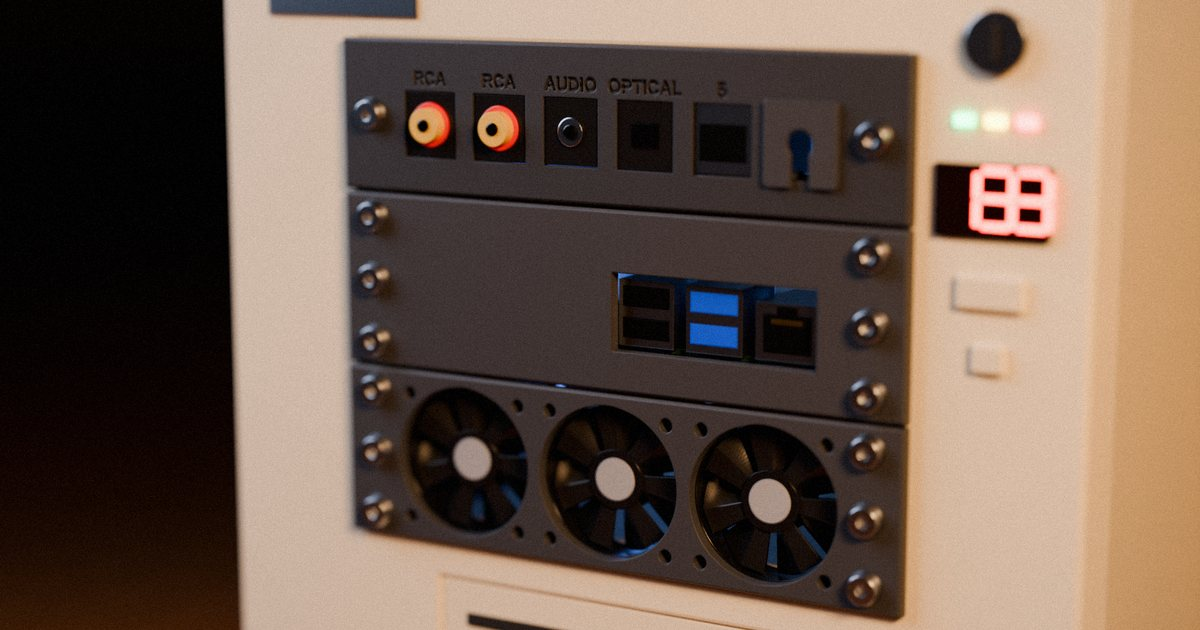
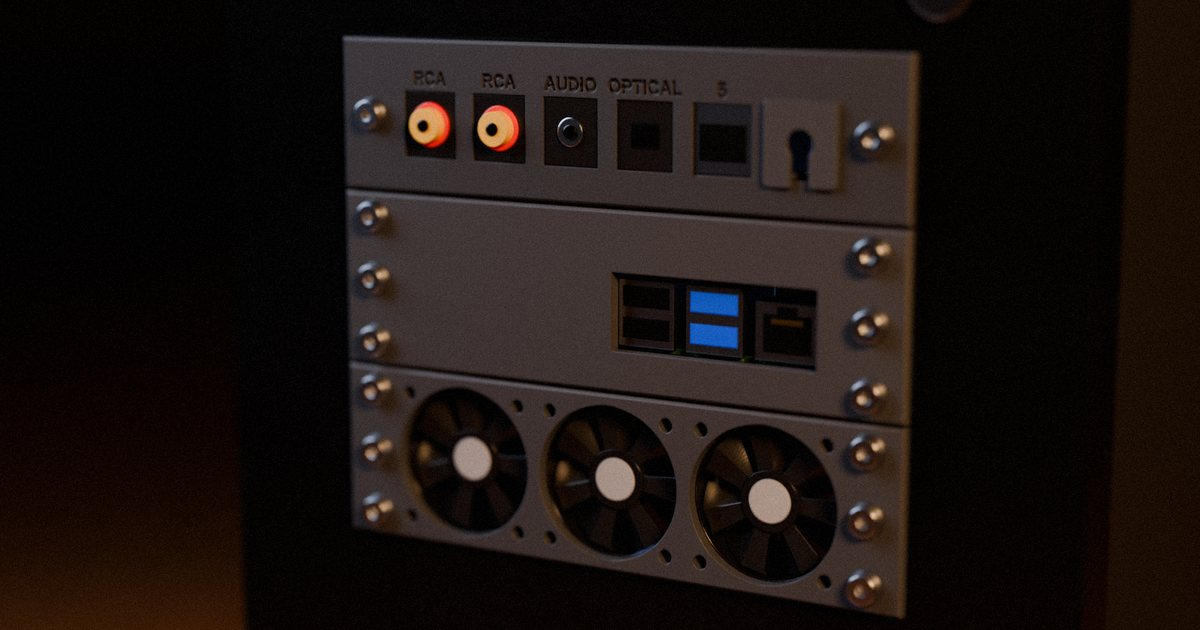
Consistency: builds load the case of their picture, one name per build, Bay2Rack, touch targets

diff --git a/web/src/strings.js b/web/src/strings.js
@@ -2,7 +2,7 @@
 // the English texts into index.html, so the page has its words before any script runs)
 export const dict = {
   en: {
-    steps: 'Build yours',
+    steps: 'Step by step',
     grp_start: 'To start', step_intent: 'What do you want in the bays?',
     intent_simple: 'A fan or buttons', intent_simple_sub: 'a front panel, the easiest, nothing else to buy',
     intent_ports: 'Sockets', intent_ports_sub: 'network, HDMI, USB or audio on the front',
@@ -164,7 +164,7 @@ export const dict = {
     undo: 'Undo (Ctrl+Z)', redo: 'Redo (Ctrl+Y)', savedTitle: 'Your builds (kept in this browser)',
     savedNone: 'None yet: give this one a name and save it.', savedSave: 'Save this build', savedName: 'Name of this build', savedDelete: 'Forget this build',
     aria_view: '3D view (arrow keys turn it, + and - zoom, Home frames it):',
-    page_title: 'bay2rack · old PC case → 6" homelab rack',
+    page_title: 'Bay2Rack · old PC case → 6" homelab rack',
     page_desc: 'Turn the 5.25 inch bays of an old PC case into a 6 inch mini rack for a cheap homelab: router with VLANs, switches, KVM, Raspberry Pi blades, patch panel. Configure it, see it mounted in 3D and download every STL in your browser.',
     resetDims: 'reset',
     devHint: 'The sizes of the devices in the list are filled in: change them only if yours is different. The tray is made for it with {n} mm of clearance.',
@@ -183,8 +183,8 @@ export const dict = {
     dev_bladePitch: 'Distance between blades', dim_pitch: 'mm',
     pos_top: 'Top', pos_bottom: 'Bottom', pos_split: 'Both', fillBottom: 'Lower strip', fillTop: 'Upper strip',
     port_rca: 'RCA', port_jack: '3.5 mm jack', port_toslink: 'Toslink',
-    ex_router: 'Router + VLANs', ex_network: 'Network rack', ex_pi: 'Raspberry Pi cluster', ex_kvm: 'KVM station', ex_audio: 'Audio',
-    ex_client: 'Buttons + 80 mm fan',
+    ex_router: 'Router with VLANs', ex_network: 'Network rack', ex_pi: 'Raspberry Pi cluster', ex_kvm: 'KVM over IP', ex_audio: 'Audio',
+    ex_client: 'Proxmox / TrueNAS box',
     ex_router_tip: 'This PC is the router (OPNsense / pfSense): a managed UniFi switch for the VLANs, a second switch for the servers, JetKVM + NanoKVM and a patch panel. Next to it a Proxmox node with a printed fan and button bezel, a TrueNAS box and an access point.',
     ex_network_tip: '5 bays: two switches, a UniFi Express and a full patch panel.',
     ex_pi_tip: '4 bays: a UniFi switch and four Raspberry Pi 5 as 2U blades.',
@@ -205,7 +205,7 @@ export const dict = {
     use_kvm_t: 'KVM over IP', use_kvm: 'JetKVM or NanoKVM in a tray: control this machine, the others, or both, from the browser even when they do not boot.',
     use_pi_t: 'Raspberry Pi cluster', use_pi: 'A flat tray for one or two boards, or 2U blades with up to four Raspberry Pi on edge, with PoE and plenty of air.',
     use_audio_t: 'Audio', use_audio: 'RCA, 3.5 mm jack and Toslink keystones for a streamer or a DAC: the PC becomes the music server.',
-    use_clients_t: 'Proxmox and TrueNAS boxes', use_clients: 'The other old towers of the homelab reuse their bays too: an 80 mm fan for the drives, a button panel with mechanical keys and LEDs.',
+    use_clients_t: 'Proxmox / TrueNAS box', use_clients: 'The other old towers of the homelab reuse their bays too: an 80 mm fan for the drives, a button panel with mechanical keys and LEDs.',
     how_title: 'How it works',
     how_1_t: 'Pick and adjust', how_1: 'Start from an example, change bays, modules, ports and screws. Hover over anything, or tap the i, to see what it does.',
     how_2_t: 'See it mounted', how_2: 'The 3D view puts it in a real PC case, with the devices and the cables.',
@@ -231,14 +231,14 @@ export const dict = {
     devices: 'Devices and keystones', hardware: 'Screws and inserts', explode: 'Pieces apart',
     test_bay: 'Bay corner', test_rack: 'Rack holes', test_keystone: 'Keystone port', test_button: 'One button', tol_mx: 'MX key cut-out',
     cover_blank: 'Plain', cover_pass: 'Pass-through',
-    readme_title: 'bay2rack kit',
+    readme_title: 'Bay2Rack kit',
     readme_print: 'Print (front face down, no supports):',
     readme_need: 'What you need:',
     readme_settings: 'Open these settings again:',
     readme_notes: 'Print the test pieces (1) first and check them in your case. If one is tight or loose, change it in the "Adjust after the test prints" step of the website, download again, then print the rest (2).', readme_guide: 'Build guide (what to buy, print order, assembly):', rearSlots: 'Printed PCI brackets to take cables out at the back (only with devices inside)', step_multi: 'Letters in another colour', multicolourOff: 'With a multi-material printer (e.g. AMS), the letters can print in a second filament.',
   },
   es: {
-    steps: 'Configura el tuyo',
+    steps: 'Paso a paso',
     grp_start: 'Para empezar', step_intent: '¿Qué quieres poner en las bahías?',
     intent_simple: 'Un ventilador o botones', intent_simple_sub: 'un frontal, lo más fácil, sin nada más que comprar',
     intent_ports: 'Enchufes', intent_ports_sub: 'red, HDMI, USB o audio en el frontal',
@@ -400,7 +400,7 @@ export const dict = {
     undo: 'Deshacer (Ctrl+Z)', redo: 'Rehacer (Ctrl+Y)', savedTitle: 'Tus montajes (guardados en este navegador)',
     savedNone: 'Aún ninguno: ponle nombre a este y guárdalo.', savedSave: 'Guardar este montaje', savedName: 'Nombre de este montaje', savedDelete: 'Olvidar este montaje',
     aria_view: 'Vista 3D (las flechas la giran, + y - acercan, Inicio la encuadra):',
-    page_title: 'bay2rack · caja de PC antigua → rack de 6" para tu homelab',
+    page_title: 'Bay2Rack · caja de PC antigua → rack de 6" para tu homelab',
     page_desc: 'Convierte las bahías de 5,25" de una caja de PC antigua en un mini rack de 6" para un homelab barato: router con VLANs, switches, KVM, blades de Raspberry Pi y patch panel. Configúralo, míralo montado en 3D y descarga todos los STL en tu navegador.',
     resetDims: 'restablecer',
     devHint: 'Ya vienen las medidas de los dispositivos de la lista: cámbialas solo si el tuyo mide distinto. La bandeja se hace a su medida con {n} mm de holgura.',
@@ -419,8 +419,8 @@ export const dict = {
     dev_bladePitch: 'Separación entre blades', dim_pitch: 'mm',
     pos_top: 'Arriba', pos_bottom: 'Abajo', pos_split: 'Las dos', fillBottom: 'Franja de abajo', fillTop: 'Franja de arriba',
     port_rca: 'RCA', port_jack: 'Jack 3,5 mm', port_toslink: 'Toslink',
-    ex_router: 'Router + VLANs', ex_network: 'Rack de red', ex_pi: 'Clúster de Raspberry Pi', ex_kvm: 'Estación KVM', ex_audio: 'Audio',
-    ex_client: 'Botones + ventilador de 80 mm',
+    ex_router: 'Router con VLANs', ex_network: 'Rack de red', ex_pi: 'Clúster de Raspberry Pi', ex_kvm: 'KVM por IP', ex_audio: 'Audio',
+    ex_client: 'Caja Proxmox / TrueNAS',
     ex_router_tip: 'Este PC hace de router (OPNsense / pfSense): switch UniFi gestionable para las VLANs, un segundo switch para los servidores, JetKVM + NanoKVM y patch panel. Al lado, un nodo Proxmox con ventilador y botonera impresos, un NAS con TrueNAS y un punto de acceso.',
     ex_network_tip: '5 bahías: dos switches, un UniFi Express y un patch panel completo.',
     ex_pi_tip: '4 bahías: un switch UniFi y cuatro Raspberry Pi 5 en blades de 2U.',
@@ -441,7 +441,7 @@ export const dict = {
     use_kvm_t: 'KVM por IP', use_kvm: 'JetKVM o NanoKVM en bandeja: controla este equipo, los otros, o ambos, desde el navegador aunque no arranquen.',
     use_pi_t: 'Clúster de Raspberry Pi', use_pi: 'Bandeja plana para una o dos placas, o blades de 2U con hasta cuatro Raspberry Pi de canto, con PoE y bien ventiladas.',
     use_audio_t: 'Audio', use_audio: 'Keystones RCA, jack de 3,5 mm y Toslink para un streamer o un DAC: el PC se convierte en el servidor de música.',
-    use_clients_t: 'Nodos Proxmox y TrueNAS', use_clients: 'Las otras torres viejas del homelab también aprovechan sus bahías: un ventilador de 80 mm para los discos y una botonera con teclas mecánicas y LEDs.',
+    use_clients_t: 'Caja Proxmox / TrueNAS', use_clients: 'Las otras torres viejas del homelab también aprovechan sus bahías: un ventilador de 80 mm para los discos y una botonera con teclas mecánicas y LEDs.',
     how_title: 'Cómo funciona',
     how_1_t: 'Elige y ajusta', how_1: 'Parte de un ejemplo y cambia bahías, módulos, puertos y tornillería. Pasa el ratón por encima, o toca la i, para ver qué hace cada cosa.',
     how_2_t: 'Míralo montado', how_2: 'La vista 3D lo monta en una caja de PC real, con los dispositivos y el cableado.',
@@ -467,7 +467,7 @@ export const dict = {
     devices: 'Dispositivos y keystones', hardware: 'Tornillos e insertos', explode: 'Piezas separadas',
     test_bay: 'Esquina de bahía', test_rack: 'Agujeros del rack', test_keystone: 'Puerto keystone', test_button: 'Un botón', tol_mx: 'Hueco de la tecla MX',
     cover_blank: 'Liso', cover_pass: 'Pasacables',
-    readme_title: 'Kit bay2rack',
+    readme_title: 'Kit Bay2Rack',
     readme_print: 'Imprimir (cara frontal sobre la cama, sin soportes):',
     readme_need: 'Lo que necesitas:',
     readme_settings: 'Para volver a abrir esta configuración:',

diff --git a/web/src/examples.js b/web/src/examples.js
@@ -1,21 +1,22 @@
-// ready-made builds: the examples step and the gallery (applied on top of the defaults)
+// ready-made builds: the examples step and the gallery (applied on top of the defaults). Each one names the
+// case of its gallery picture (scripts/blender/gallery.py), so loading it shows the same PC.
 export const EXAMPLES = {
-  router: { bays: 4, fit: 'flush', front_style: 'plate', filler_mode: 'separate', rack_modules: 'uswflex,ms105g,kvm:jet+nano',
+  router: { bays: 4, case_model: 'definexlr2', scene: 'homelab', fit: 'flush', front_style: 'plate', filler_mode: 'separate', rack_modules: 'uswflex,ms105g,kvm:jet+nano',
             spare_pos: 'top', spare_fill: 'keystone', ks_ports_list: 'rj45m,rj45m,rj45m,cover,pass,pass' },
-  homelab: { bays: 3, fit: 'flush', front_style: 'plate', filler_mode: 'separate', rack_modules: 'ms105g,kvm:jet+nano',
+  homelab: { bays: 3, scene: 'homelab', fit: 'flush', front_style: 'plate', filler_mode: 'separate', rack_modules: 'ms105g,kvm:jet+nano',
              spare_pos: 'top', spare_fill: 'keystone', ks_ports_list: 'rj45m,rj45m,rj45m,cover,cover,pass' },
-  network: { bays: 5, fit: 'flush', front_style: 'plate', filler_mode: 'separate', rack_modules: 'uswflex,ms105g,ux,patch',
+  network: { bays: 5, case_model: 'haf932', fit: 'flush', front_style: 'plate', filler_mode: 'separate', rack_modules: 'uswflex,ms105g,ux,patch',
              spare_pos: 'top', spare_fill: 'vent', ks_ports_list: 'rj45m,rj45m,rj45m,rj45m,cover,pass' },
-  pi: { bays: 4, fit: 'flush', front_style: 'plate', filler_mode: 'separate', rack_modules: 'uswflex,piblade:pi5+pi5+pi5+pi5',
+  pi: { bays: 4, case_model: 'stacker830', fit: 'flush', front_style: 'plate', filler_mode: 'separate', rack_modules: 'uswflex,piblade:pi5+pi5+pi5+pi5',
         spare_pos: 'top', spare_fill: 'vent' },
-  kvm: { bays: 3, fit: 'flush', front_style: 'plate', filler_mode: 'separate', rack_modules: 'kvm:jet+jet,kvm:nano+nano',
+  kvm: { bays: 3, case_model: 'enthoopro', fit: 'flush', front_style: 'plate', filler_mode: 'separate', rack_modules: 'kvm:jet+jet,kvm:nano+nano',
          spare_pos: 'top', spare_fill: 'keystone', ks_ports_list: 'rj45m,rj45m,rj45m,rj45m,hdmi,usb' },
-  audio: { bays: 3, fit: 'flush', front_style: 'plate', filler_mode: 'separate', rack_modules: 'pi:pi4,fan40',
+  audio: { bays: 3, case_model: 'obsidian750d', fit: 'flush', front_style: 'plate', filler_mode: 'separate', rack_modules: 'pi:pi4,fan40',
            spare_pos: 'top', spare_fill: 'keystone', ks_ports_list: 'rca,rca,jack,toslink,rj45m,pass' },
-  unifi: { bays: 3, fit: 'flush', front_style: 'plate', filler_mode: 'separate', rack_modules: 'uswflex,ux',
+  unifi: { bays: 3, case_model: 'obsidian750d', fit: 'flush', front_style: 'plate', filler_mode: 'separate', rack_modules: 'uswflex,ux',
            spare_pos: 'top', spare_fill: 'keystone', ks_ports_list: 'rj45m,rj45m,rj45m,rj45m,cover,pass' },
-  client: { bays: 3, fit: 'panel', front_style: 'plate', filler_mode: 'integral', spare_pos: 'split', spare_split: 0.67,
+  client: { bays: 3, case_model: 'antec300', fit: 'panel', front_style: 'plate', filler_mode: 'integral', spare_pos: 'split', spare_split: 0.67,
             spare_fill: 'fan80', spare_fill_2: 'buttons' },
-  bezel: { bays: 3, fit: 'flush', front_style: 'bezel', filler_mode: 'integral', rack_modules: 'ms105g,kvm:jet+nano',
+  bezel: { bays: 3, case_model: 'definexlr2', fit: 'flush', front_style: 'bezel', filler_mode: 'integral', rack_modules: 'ms105g,kvm:jet+nano',
            spare_pos: 'top', spare_fill: 'keystone', ks_ports_list: 'rj45m,rj45m,rj45m,cover,cover,pass' },
 };

diff --git a/web/index.html b/web/index.html
@@ -3,9 +3,9 @@
 <head>
   <meta charset="utf-8">
   <meta name="viewport" content="width=device-width, initial-scale=1, viewport-fit=cover">
-  <title>bay2rack · old PC case → 6" homelab rack</title>
+  <title>Bay2Rack · old PC case → 6" homelab rack</title>
   <meta name="description" content="Turn the 5.25 inch bays of an old PC case into a 6 inch mini rack for a cheap homelab: router with VLANs, switches, KVM, Raspberry Pi blades, patch panel. Configure it, see it mounted in 3D and download every STL in your browser.">
-  <meta property="og:title" content="bay2rack · old PC case → 6&quot; homelab rack">
+  <meta property="og:title" content="Bay2Rack · old PC case → 6&quot; homelab rack">
   <meta property="og:image" content="https://bay2rack.pages.dev/img/og.jpg">
   <meta property="og:description" content="Turn the 5.25 inch bays of an old PC case into a 6 inch mini rack for a cheap homelab. Configure it, see it in 3D and download every STL in your browser.">
   <meta property="og:url" content="https://bay2rack.pages.dev/">
@@ -20,7 +20,7 @@
   {
     "@context": "https://schema.org",
     "@type": "SoftwareApplication",
-    "name": "bay2rack",
+    "name": "Bay2Rack",
     "url": "https://bay2rack.pages.dev/",
     "applicationCategory": "DesignApplication",
     "operatingSystem": "Web browser",
@@ -44,8 +44,8 @@
 <body>
   <a class="skip" href="#build" data-i18n="nav_build"></a>
   <header class="top">
-    <a class="brand" href="#top" aria-label="bay2rack">
-      <span class="wordmark">bay2rack</span>
+    <a class="brand" href="#top" aria-label="Bay2Rack">
+      <span class="wordmark">Bay2Rack</span>
     </a>
     <nav class="nav" aria-label="Sections" data-i18n-aria="aria_sections">
       <a class="nav-link" href="#why" data-i18n="nav_why"></a>
@@ -205,7 +205,7 @@
   <footer class="foot" id="credits">
     <div class="wrap foot-main">
       <div class="foot-brand">
-        <span class="wordmark">bay2rack</span>
+        <span class="wordmark">Bay2Rack</span>
         <p data-i18n="foot_tagline"></p>
       </div>
       <div class="foot-wip">

diff --git a/web/src/style.css b/web/src/style.css
@@ -210,7 +210,7 @@ button:disabled { opacity: .45; cursor: default; }
 .shot p { color: var(--ink-2); font-size: .93rem; max-width: 60ch; }
 .shot .spec { font: 500 11.5px/1.4 var(--f-mono); font-stretch: 87.5%; color: var(--ink-3); }
 .load {
-  justify-self: start; display: inline-flex; gap: 8px; align-items: center; margin-top: 4px; padding: 0; border: 0; background: none;
+  justify-self: start; display: inline-flex; gap: 8px; align-items: center; min-height: 44px; margin-top: -6px; padding: 0; border: 0; background: none;
   color: var(--signal); font-weight: 650; font-size: .93rem; cursor: pointer; text-decoration: underline; text-underline-offset: 3px;
 }
 
@@ -320,6 +320,8 @@ button:disabled { opacity: .45; cursor: default; }
 }
 .body { display: grid; gap: 10px; min-width: 0; }
 .hint { color: var(--ink-3); font-size: 12.5px; line-height: 1.4; }
+/* a link inside a hint: a finger-sized target without changing the line */
+.hint a { display: inline-block; padding-block: 12px; margin-block: -12px; }
 .hint.warn { color: var(--warn); }
 .hint.note { color: var(--note); }
 .hint .link { font: inherit; text-decoration: underline; }

diff --git a/web/vite.config.js b/web/vite.config.js
@@ -71,7 +71,7 @@ function sharePage(k) {
   const en = dict.en;
   const hash = '#' + new URLSearchParams(Object.entries(EXAMPLES[k]).map(([a, b]) => [a, String(b)])).toString();
   const img = existsSync(join(repo, 'docs', 'gallery', `${k}-og.jpg`)) ? `img/gallery/${k}-og.jpg` : 'img/og.jpg';
-  const title = `${en['ex_' + k]} · bay2rack`;
+  const title = `${en['ex_' + k]} · Bay2Rack`;
   const to = `../../${hash}`;
   return `<!doctype html>
 <html lang="en">

diff --git a/scripts/blender/gallery.py b/scripts/blender/gallery.py
@@ -1,4 +1,5 @@
-"""The gallery pictures of the site: each ready-made build in its own case and its own setting.
+"""The gallery pictures of the site: each ready-made build in its own case and its own setting (the case the
+example in web/src/examples.js names, so loading it shows the same PC).
 
 One shared language (the same 4:3 frame, a 50-85 mm lens on the rack front, AgX, PLA with layer lines) and one
 look per build: a desk at night, a blue homelab shelf, a workbench, a macro, a warm living room, a backlit gaming
@@ -37,7 +38,7 @@ def srgb(h):
 # per build: the setting, the camera (azimuth from the front, elevation, lens, f-stop, how much of the frame
 # the rack fills), the lights and the floor. Angles in degrees; the rack front faces -Y.
 LOOKS = {
-    "router": dict(world=("#0b0d12", 0.6), floor="wood_dark", az=-28, el=12, lens=70, fstop=2.8, fill=0.62,
+    "router": dict(world=("#0b0d12", 0.6), floor="wood_dark", az=-24, el=12, lens=60, fstop=4, fill=0.36, shift=0.17,
                    lights=[("key", -1.0, -0.9, 0.7, 0.5, 40, "#ffe4c8"), ("rim", 0.9, 0.9, 0.6, 0.6, 160, "#6d8cff"),
                            ("fill", 1.2, -1.0, 0.3, 1.2, 14, "#c9d6ff")]),
     "network": dict(world=("#05080f", 0.4), floor="slate", az=24, el=8, lens=60, fstop=4, fill=0.66,
@@ -279,6 +280,8 @@ def camera(look, rack_lo, rack_hi):
     c.lens, c.sensor_width = look["lens"], 36
     aim = (rack_lo + rack_hi) / 2
     aim.y = rack_lo.y                                        # the front face
+    rack = aim.copy()                                        # the focus stays on the rack
+    aim.x += look.get("shift", 0)                            # towards the PCs next to it (homelab scene), metres
     h = max(rack_hi.z - rack_lo.z, (rack_hi.x - rack_lo.x) * 0.75)
     vfov = 2 * math.atan(36 * 0.75 / 2 / c.lens)
     dist = h / look["fill"] / 2 / math.tan(vfov / 2)
@@ -287,7 +290,7 @@ def camera(look, rack_lo, rack_hi):
     cam.rotation_euler = (aim - cam.location).to_track_quat("-Z", "Y").to_euler()
     c.dof.use_dof = True
     c.dof.aperture_fstop = look["fstop"]
-    c.dof.focus_distance = (aim - cam.location).length
+    c.dof.focus_distance = (rack - cam.location).length
     return aim, dist
 
 

diff --git a/README.es.md b/README.es.md
@@ -1,9 +1,9 @@
-# bay2rack — caja de PC antigua → rack de 6" para tu homelab
+# Bay2Rack — caja de PC antigua → rack de 6" para tu homelab
 
 *[Read in English](README.md)* · [![Model tests](https://github.com/abarriuso/bay2rack/actions/workflows/models.yml/badge.svg)](https://github.com/abarriuso/bay2rack/actions/workflows/models.yml)
 
 Las torres traían bahías de 5,25" para los lectores de CD. Las cajas nuevas ya no, pero el ATX no ha cambiado: esa caja
-antigua sigue admitiendo una placa base moderna. **bay2rack** es un adaptador paramétrico en OpenSCAD que se atornilla
+antigua sigue admitiendo una placa base moderna. **Bay2Rack** es un adaptador paramétrico en OpenSCAD que se atornilla
 a esas bahías y las convierte en un **mini rack de 6"**, para que una torre antigua sea el corazón de un homelab barato:
 un router con VLANs, switches, KVM por IP, blades de Raspberry Pi y un patch panel, en el frontal de la caja.
 
@@ -34,10 +34,10 @@ Evolución del post original
 
 | | |
 |---|---|
-| ![Router + VLANs](docs/gallery/router.webp) **Router + VLANs**: el PC corre OPNsense / pfSense con una tarjeta de red de 4 puertos; un switch UniFi gestionable lleva las VLANs, un segundo switch los servidores, JetKVM + NanoKVM, patch panel | ![Rack de red](docs/gallery/network.webp) **Rack de red**: 5 bahías, dos switches, un UniFi Express y un patch panel completo |
-| ![Clúster de Raspberry Pi](docs/gallery/pi.webp) **Clúster de Raspberry Pi**: un switch UniFi y cuatro Raspberry Pi 5 de pie en blades de 2U | ![Estación KVM](docs/gallery/kvm.webp) **Estación KVM**: dos bandejas, dos JetKVM y dos NanoKVM, keystones HDMI y USB |
+| ![Router con VLANs](docs/gallery/router.webp) **Router con VLANs**: el PC corre OPNsense / pfSense con una tarjeta de red de 4 puertos; un switch UniFi gestionable lleva las VLANs, un segundo switch los servidores, JetKVM + NanoKVM, patch panel | ![Rack de red](docs/gallery/network.webp) **Rack de red**: 5 bahías, dos switches, un UniFi Express y un patch panel completo |
+| ![Clúster de Raspberry Pi](docs/gallery/pi.webp) **Clúster de Raspberry Pi**: un switch UniFi y cuatro Raspberry Pi 5 de pie en blades de 2U | ![KVM por IP](docs/gallery/kvm.webp) **KVM por IP**: dos bandejas, dos JetKVM y dos NanoKVM, keystones HDMI y USB |
 | ![Audio](docs/gallery/audio.webp) **Audio**: un streamer con Raspberry Pi 4, tres ventiladores de 40 mm, keystones RCA, jack de 3,5 mm y Toslink | ![Caja Proxmox / TrueNAS](docs/gallery/client.webp) **Caja Proxmox / TrueNAS**: sin rack, solo un panel frontal con un ventilador de 80 mm y una botonera de encendido / reset |
-| ![UniFi](docs/gallery/unifi.webp) **UniFi**: switch Flex Mini y UniFi Express | ![Bisel enrasado](docs/gallery/bezel.webp) **Bisel enrasado**: un bisel de 5,25" exacto, enrasado con el frontal de la caja |
+| ![UniFi](docs/gallery/unifi.webp) **UniFi**: switch Flex Mini y UniFi Express | ![Frente tipo lector de CD](docs/gallery/bezel.webp) **Frente tipo lector de CD**: un bisel de 5,25" exacto, enrasado con el frontal de la caja |
 
 ## Un homelab con PCs antiguos
 

diff --git a/README.md b/README.md
@@ -1,9 +1,9 @@
-# bay2rack — old PC case → 6" homelab rack
+# Bay2Rack — old PC case → 6" homelab rack
 
 *[Leer en español](README.es.md)* · [![Model tests](https://github.com/abarriuso/bay2rack/actions/workflows/models.yml/badge.svg)](https://github.com/abarriuso/bay2rack/actions/workflows/models.yml)
 
 Towers used to come with 5.25" bays for CD drives. New cases don't, but ATX hasn't changed: that old case still
-takes a modern motherboard. **bay2rack** is a parametric OpenSCAD adapter that screws into those bays and turns them
+takes a modern motherboard. **Bay2Rack** is a parametric OpenSCAD adapter that screws into those bays and turns them
 into a **6" mini rack**, so an old tower becomes the heart of a cheap homelab: a router with VLANs, switches,
 KVM over IP, Raspberry Pi blades and a patch panel, right in the front of the case.
 
@@ -33,10 +33,10 @@ Evolution of the original
 
 | | |
 |---|---|
-| ![Router + VLANs](docs/gallery/router.webp) **Router + VLANs**: the PC runs OPNsense / pfSense with a 4-port network card; a managed UniFi switch carries the VLANs, a second switch the servers, JetKVM + NanoKVM, patch panel | ![Network rack](docs/gallery/network.webp) **Network rack**: 5 bays, two switches, a UniFi Express and a full patch panel |
-| ![Raspberry Pi cluster](docs/gallery/pi.webp) **Raspberry Pi cluster**: a UniFi switch and four Raspberry Pi 5 standing as 2U blades | ![KVM station](docs/gallery/kvm.webp) **KVM station**: two trays, two JetKVM and two NanoKVM, HDMI and USB keystones |
+| ![Router with VLANs](docs/gallery/router.webp) **Router with VLANs**: the PC runs OPNsense / pfSense with a 4-port network card; a managed UniFi switch carries the VLANs, a second switch the servers, JetKVM + NanoKVM, patch panel | ![Network rack](docs/gallery/network.webp) **Network rack**: 5 bays, two switches, a UniFi Express and a full patch panel |
+| ![Raspberry Pi cluster](docs/gallery/pi.webp) **Raspberry Pi cluster**: a UniFi switch and four Raspberry Pi 5 standing as 2U blades | ![KVM over IP](docs/gallery/kvm.webp) **KVM over IP**: two trays, two JetKVM and two NanoKVM, HDMI and USB keystones |
 | ![Audio](docs/gallery/audio.webp) **Audio**: a Raspberry Pi 4 streamer, three 40 mm fans, RCA, 3.5 mm jack and Toslink keystones | ![Proxmox / TrueNAS box](docs/gallery/client.webp) **Proxmox / TrueNAS box**: no rack, just a front panel with an 80 mm fan and a power / reset button panel |
-| ![UniFi](docs/gallery/unifi.webp) **UniFi**: Flex Mini switch and UniFi Express | ![Flush bezel](docs/gallery/bezel.webp) **Flush bezel**: an exact 5.25" bezel, flush with the case front |
+| ![UniFi](docs/gallery/unifi.webp) **UniFi**: Flex Mini switch and UniFi Express | ![CD-drive front](docs/gallery/bezel.webp) **CD-drive front**: an exact 5.25" bezel, flush with the case front |
 
 ## A homelab from old PCs
 

diff --git a/CHANGELOG.md b/CHANGELOG.md
@@ -5,6 +5,17 @@ on the photos and in the MakerWorld notes.
 
 ## Unreleased
 
+- Consistency pass:
+  - Each ready-made build names the case of its gallery picture, so loading it shows the same PC (the configurator
+    used to pick the smallest case that fits: 5 of 8 showed another one). The router and homelab builds show their
+    homelab scene, as their texts say; the router picture now has the PCs next to it, the audio one the black case
+    it loads.
+  - One name per build everywhere (gallery card, share page, load button, README): Router with VLANs, KVM over IP,
+    Proxmox / TrueNAS box, CD-drive front.
+  - The name is written Bay2Rack in every text (title, logo, link previews, README); bay2rack stays in file names
+    and addresses.
+  - Finger-sized "Load" buttons and glossary link on phones (44 px); the configurator's panel title no longer
+    repeats the section title ("Step by step").
 - Homelab scene: the network, uplink and power cables inside the case run like tidy cable management: straight
   back out of the keystones, behind the drive cage, a flat ribbon along the roof on the window side and down the
   back wall to the rear slot, held by velcro ties on adhesive mounts (under a roof fan it runs below the fan).

diff --git a/docs/CASES.md b/docs/CASES.md
@@ -2,7 +2,7 @@
 
 *[Leer en español](CASES.es.md)*
 
-How bay2rack fits in real PC cases. Every case is a little different (bay screw holes, metal tabs between the
+How Bay2Rack fits in real PC cases. Every case is a little different (bay screw holes, metal tabs between the
 bays, how far the plastic front stands out), so this list grows with the reports of the people who print it.
 
 **Add yours:** [open a case report](https://github.com/abarriuso/bay2rack/issues/new?template=case-report.yml),

diff --git a/docs/CASES.es.md b/docs/CASES.es.md
@@ -2,7 +2,7 @@
 
 *[Read in English](CASES.md)*
 
-Cómo encaja bay2rack en cajas de PC reales. Cada caja es un poco distinta (los agujeros de las bahías, las pestañas
+Cómo encaja Bay2Rack en cajas de PC reales. Cada caja es un poco distinta (los agujeros de las bahías, las pestañas
 metálicas entre bahías, cuánto sobresale el frontal de plástico), así que esta lista crece con los informes de quien
 lo imprime.
 
